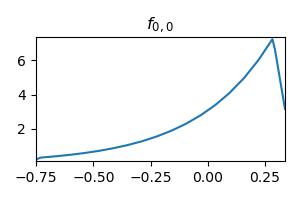
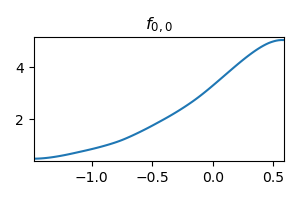
add smooth_penalty

diff --git a/experiment_interpolation.py b/experiment_interpolation.py
@@ -4,7 +4,7 @@ import torch.optim as optim
 import torch.nn.functional as F
 
 import matplotlib.pyplot as plt
-from kan_layer import KANLayer, KANInterpoLayer
+from kan_layer import KANLayer, KANInterpoLayer, smooth_penalty
 from tqdm import tqdm
 
 
@@ -17,7 +17,7 @@ def target_fn(input):
     return torch.exp(torch.sin(torch.pi * x) + y**2)
 
 
-def train(model, n_epoch, lr=1e-2, batch_size=32, weight_decay=1e-3, L1=1e-5, eta_min=1e-5):
+def train(model, n_epoch, lr=1e-2, batch_size=32, weight_decay=1e-3, L1=1e-5, eta_min=1e-5, smooth=0.1):
     optimizer = optim.Adam(model.parameters(), lr=lr, weight_decay=weight_decay)
     scheduler = optim.lr_scheduler.CosineAnnealingLR(optimizer, n_epoch, eta_min=eta_min)
     lf = nn.MSELoss()
@@ -33,7 +33,7 @@ def train(model, n_epoch, lr=1e-2, batch_size=32, weight_decay=1e-3, L1=1e-5, et
         L1_loss = 0
         for param in model.parameters():
             L1_loss += torch.norm(param, 1)
-        train_loss = loss + L1 * L1_loss
+        train_loss = loss + L1 * L1_loss + smooth_penalty(model) * smooth
         train_loss.backward()
         loss_count.append(loss.item())
         optimizer.step()
@@ -46,11 +46,11 @@ if __name__ == '__main__':
 
     dims = [2, 1, 1]
     model = nn.Sequential(
-        KANInterpoLayer(dims[0], dims[1], num_x=64),
-        KANInterpoLayer(dims[1], dims[2], num_x=64)
+        KANInterpoLayer(dims[0], dims[1], num_x=256, x_min=-3, x_max=3),
+        KANInterpoLayer(dims[1], dims[2], num_x=256)
     )
 
-    loss_count = train(model, 20000, lr=1e-2, weight_decay=1e-5, L1=0)
+    loss_count = train(model, 20000, lr=1e-1, weight_decay=1e-5, L1=0, smooth=0.01)
 
     plt.plot(loss_count)
     plt.semilogy()
@@ -91,14 +91,14 @@ if __name__ == '__main__':
             plt.subplot(dims[2], dims[1], i * dims[2] + j + 1)
             f = model[layer].take_function(i, j)
 
-            x = torch.linspace(x_ranges[i][0] - 0.05, x_ranges[i][1] + 0.05, 100)
+            x = torch.linspace(x_ranges[i][0] - 0.005, x_ranges[i][1] + 0.005, 100)
             y = f(x.unsqueeze(-1)).detach().squeeze()
 
             vmin, vmax = y.min().item() - 0.1, y.max().item() + 0.1
 
             plt.plot(x, y)
             plt.ylim(vmin, vmax)
-            plt.xlim(x_ranges[i][0] - 0.05, x_ranges[i][1] + 0.05)
+            plt.xlim(x_ranges[i][0] - 0.005, x_ranges[i][1] + 0.005)
             plt.title(f"$f_{{{i}, {j}}}$")
 
     plt.tight_layout()

diff --git a/kan_layer.py b/kan_layer.py
@@ -208,3 +208,20 @@ class KANInterpoLayer(nn.Module):
         def activation(x):
             return linear_interpolation(x, self.X, self.Y[i, j])
         return activation
+
+
+def smooth_penalty(model):
+    p = 0
+    if isinstance(model, KANInterpoLayer):
+        dx = model.X[1] - model.X[0]
+        grad = model.Y[:, :, 1:] - model.Y[:, :, :-1]
+        # grad = grad[:, :, 1:] - grad[:, :, :-1]
+        return torch.norm(grad, 2) / dx
+
+    for layer in model:
+        if isinstance(layer, KANInterpoLayer):
+            dx = layer.X[1] - layer.X[0]
+            grad = layer.Y[:, :, 1:] - layer.Y[:, :, :-1]
+            # grad = grad[:, :, 1:] - grad[:, :, :-1]
+            p += torch.norm(grad, 2) / dx
+    return p

diff --git a/README.md b/README.md
@@ -91,7 +91,7 @@ y = model(x)
 # y.shape = (16, 1)
 ```
 
-The result shows similar performance. However, this version is harder to train. I guess it is because each parameter only affect the behavior locally, making it harder to cross local minima, or zero-gradient points.
+The result shows similar performance. However, this version is harder to train. I guess it is because each parameter only affect the behavior locally, making it harder to cross local minima, or zero-gradient points. Adding `smooth_penalty` may help.
 
 ![](./images/layer_0_interpolation.png)
 
